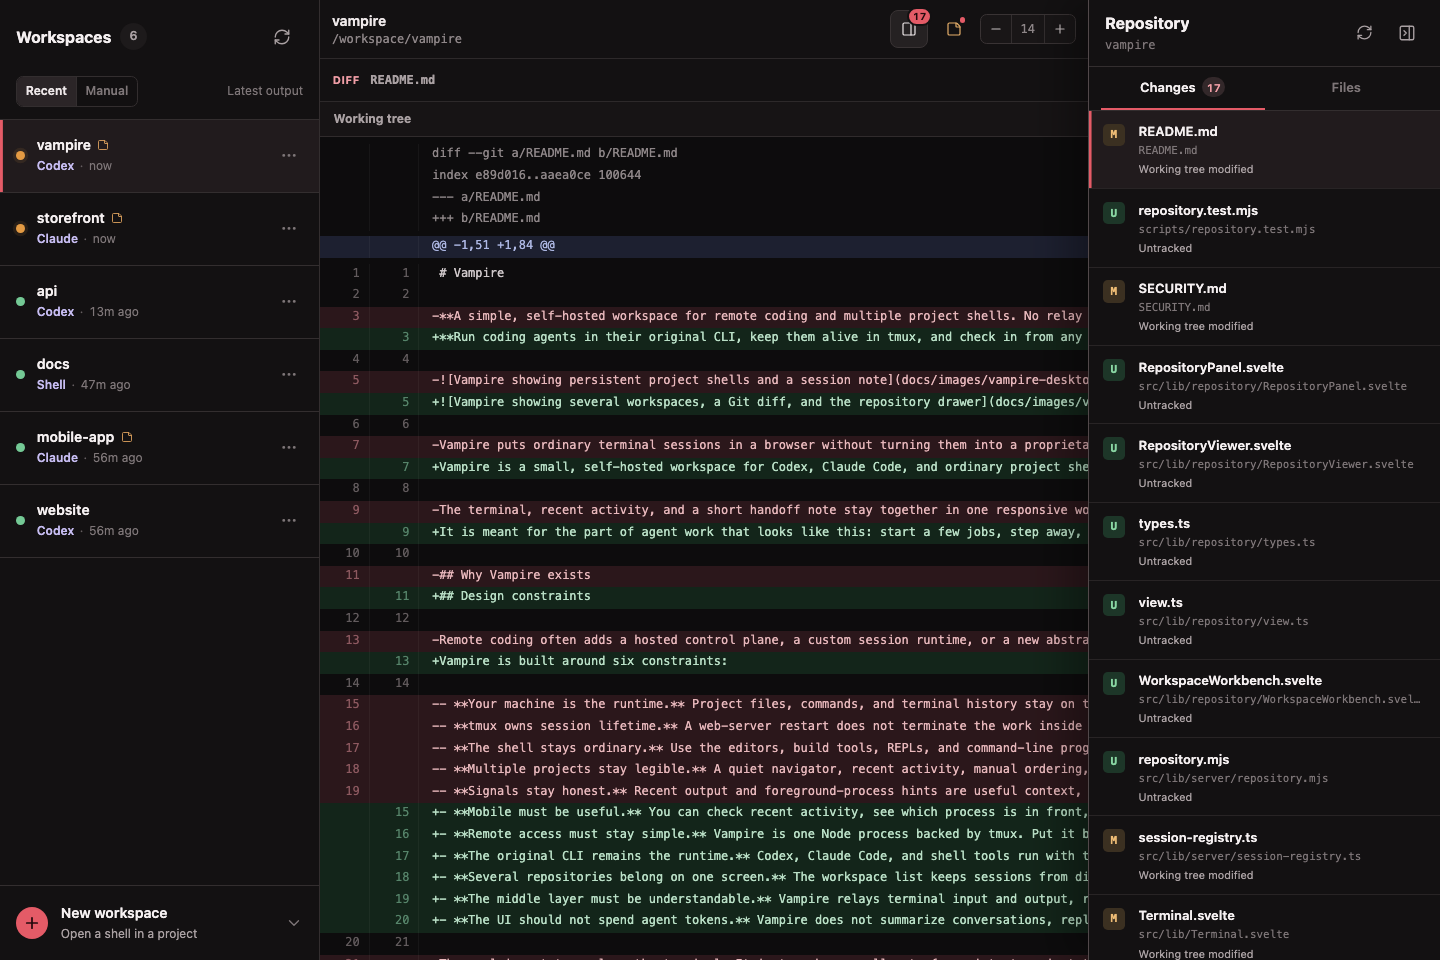
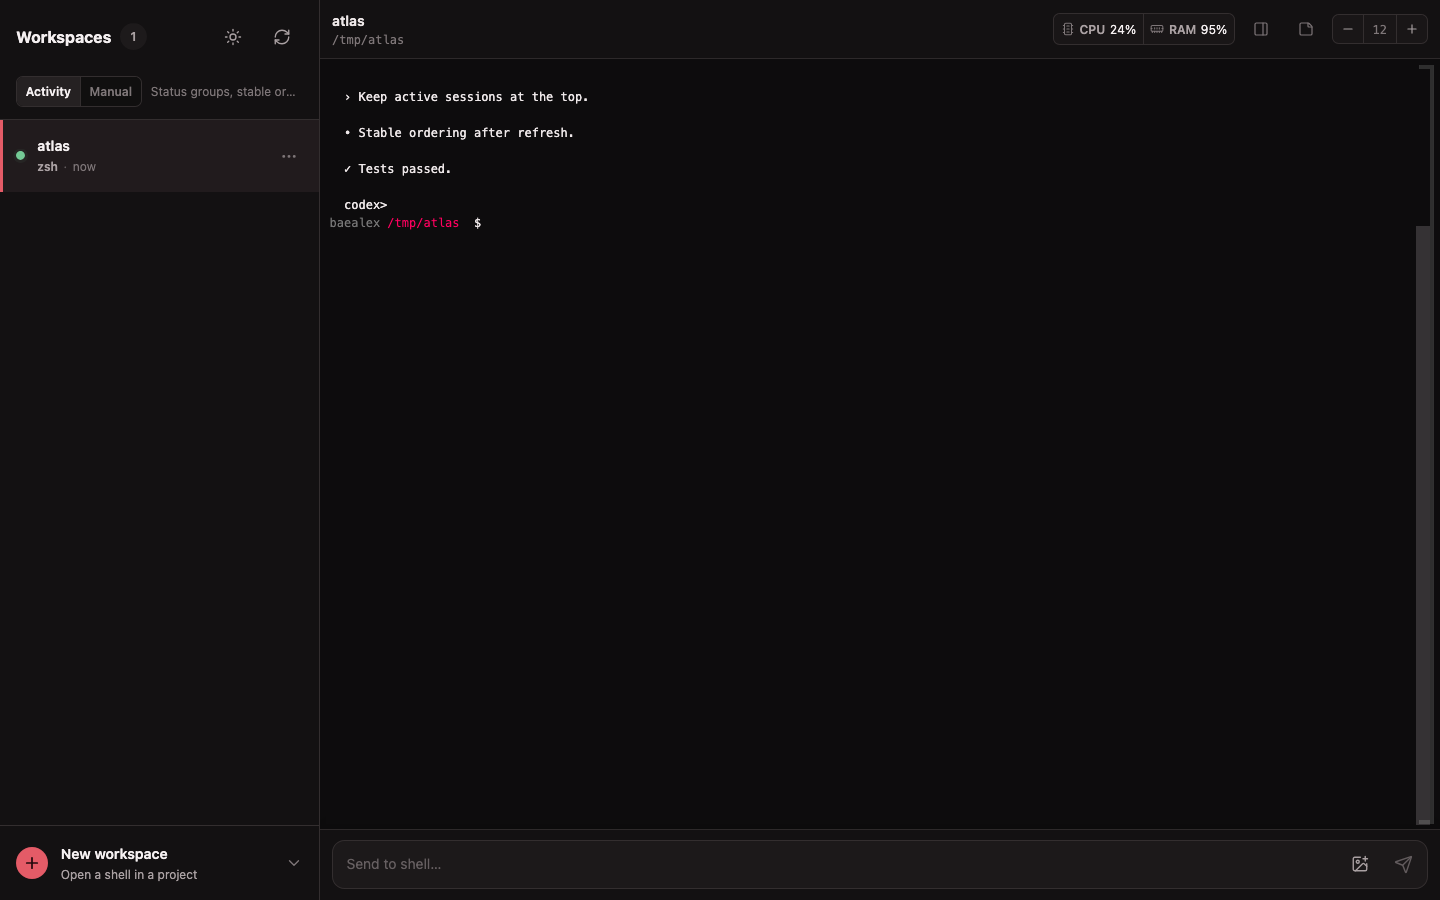
docs: refresh README onboarding and screenshots

diff --git a/README.md b/README.md
@@ -1,146 +1,119 @@
 # Vampire
 
-**Run coding agents in their original CLI, keep them alive in tmux, and check in from any browser.**
+**Keep your coding agents running in tmux. Continue the same conversation from a desktop or mobile browser.**
 
-![Vampire showing several workspaces, a Git diff, and the repository drawer](docs/images/vampire-desktop.png)
+<table>
+  <tr>
+    <td width="78%" valign="top">
+      <img src="docs/images/vampire-desktop.png" alt="Vampire desktop workspace with an agent conversation" />
+    </td>
+    <td width="22%" valign="top">
+      <img src="docs/images/vampire-mobile.png" alt="Vampire mobile workspace with an agent conversation" />
+    </td>
+  </tr>
+</table>
 
-Vampire is a small, self-hosted workspace for Codex, Claude Code, and ordinary project shells. Your tools keep their own configuration and authentication, tmux keeps them running, and Vampire gives you a browser UI for checking and controlling them from a laptop or phone.
-
-## Why this exists
-
-The tools I tried wanted to manage the agent too. They added a hosted relay, hooks, environment variables, a notification service, or their own agent runtime. I didn't want any of that.
-
-I wanted to keep using agents in the terminal, but make it easier to leave several jobs running and check them from another screen. Vampire handles the tmux sessions and browser UI. It leaves the agent alone.
+Vampire is a small, self-hosted browser UI for Codex, Claude Code, and ordinary shell sessions. The CLI, credentials, and project files stay on your machine.
 
 ## Quick start
 
-You need Node.js 22 or newer and tmux on macOS, Linux, or WSL2.
+### 1. Install prerequisites
 
-```sh
+You need Node.js 22+ and tmux.
+
+macOS (Homebrew):
+
+```bash
+brew install tmux
+```
+
+Debian, Ubuntu, or WSL2:
+
+```bash
+sudo apt update
+sudo apt install tmux
+```
+
+Fedora:
+
+```bash
+sudo dnf install tmux
+```
+
+Arch:
+
+```bash
+sudo pacman -S tmux
+```
+
+### 2. Start Vampire
+
+```bash
 npx vampire
 ```
 
-Open the local URL printed by Vampire (`http://127.0.0.1:7677` by default), add an absolute project directory, then start the CLI you already use:
+Open the printed URL, choose a project directory, and create a workspace.
 
-```sh
+### 3. Start your CLI
+
+Inside a workspace, run the agent or shell you already use:
+
+```bash
 codex
 # or
 claude
 ```
 
-Without `VAMPIRE_TOKEN`, Vampire stays local-only and shows no login screen. For remote access, set a token and place Vampire behind HTTPS, a VPN, or a private tunnel:
-
-```sh
-VAMPIRE_TOKEN="$(openssl rand -base64 32)" vampire
-```
+The process keeps running in tmux when you close the browser. Reopen the workspace from any device to continue.
 
 ## What you get
 
-- **Persistent workspaces.** Each workspace is a real tmux session. Closing the browser or restarting Vampire does not stop it.
-- **Workspace list.** See the foreground process, recent activity, notes, and projects in one place. Workspaces can be ordered manually.
-- **Git changes.** The terminal header shows the changed-file count. The read-only repository drawer shows diffs and previews text or image files.
-- **Mobile terminal.** Use Escape, Ctrl-C, Tab, Enter, arrow keys, image input, and font controls without a hardware keyboard. A tap interacts with the terminal; a drag scrolls.
-- **Dark and light themes.** Use the system theme or switch it yourself.
-- **The original CLI.** Codex and Claude Code keep their own credentials and configuration. Vampire does not rewrite prompts or make model calls.
+- Persistent tmux sessions for Codex, Claude Code, and any CLI.
+- The same workspace from a desktop or mobile browser.
+- Activity states for sessions that are live, under review, or idle.
+- Notes and process labels in the workspace list.
+- Git diffs, image previews, text editing, and inline file/folder creation.
+- Light and dark themes with a mobile-friendly terminal.
 
-Workspace status is based on terminal output:
+| State | Meaning |
+| --- | --- |
+| Live | Terminal output is active. |
+| Review | New terminal output needs review. |
+| Idle | No process is currently active. |
 
-| 🟡 Live | 🔵 Review | 🟢 Idle |
-| --- | --- | --- |
-| Terminal output is active | New output has not been viewed | Checked and quiet |
+## Remote access
 
-Activity states come from ordinary terminal output, not hooks or agent callbacks. They describe output, not the agent's intent, so Vampire does not guess whether an agent is finished or waiting for input.
+Vampire is local-only by default. If you need to access it from another device, set a token and put it behind HTTPS or a private network:
 
-## How it works
-
-```mermaid
-flowchart LR
-    Browser["Browser<br/>laptop or phone"]
-    Provider["Model provider"]
-
-    subgraph Machine["Your machine"]
-        direction LR
-        Vampire["Vampire<br/>browser connection"]
-        Tmux["tmux<br/>process lifetime"]
-        CLI["Codex · Claude Code<br/>or any CLI"]
-        Vampire <-->|"ordinary terminal I/O"| Tmux
-        Tmux -->|"keeps alive"| CLI
-    end
-
-    Browser <-->|"terminal input and output"| Vampire
-    CLI <-->|"own credentials and config"| Provider
+```bash
+VAMPIRE_TOKEN="$(openssl rand -base64 32)" npx vampire
 ```
 
-Vampire creates a plain tmux session in the project directory. You start the CLI yourself. tmux keeps the process alive; Vampire handles the browser connection and session list.
-
-## Mobile
-
-Open the same Vampire URL on a phone to review workspaces, scroll through output, and send the next instruction without reaching for a laptop.
-
-<p align="center">
-  <img src="docs/images/vampire-mobile.png" width="320" alt="Vampire's mobile terminal and instruction composer">
-</p>
-
-## Remote access and security
-
-Vampire is a remote shell interface. Anyone who can authenticate can act with the operating-system permissions of the Vampire process. It is intended for one trusted person or a small trusted environment, not as a multi-tenant isolation boundary.
-
-Keep Vampire bound to `127.0.0.1` and expose it through a same-host HTTPS reverse proxy or private network. It refuses non-loopback binding unless `VAMPIRE_TOKEN` is configured.
-
-```sh
-VAMPIRE_TOKEN="your-long-random-token" \
-VAMPIRE_ADAPTER_ORIGIN="https://vampire.example.com" \
-vampire
-```
-
-Minimal Caddy configuration:
-
-```caddyfile
-vampire.example.com {
-	reverse_proxy 127.0.0.1:7677
-}
-```
-
-The proxy must preserve the external `Host` header and support WebSocket upgrades. Read [SECURITY.md](SECURITY.md) before exposing Vampire outside your machine.
+Do not expose an unauthenticated instance to the public internet. See [SECURITY.md](SECURITY.md) for the threat model and reverse-proxy guidance.
 
 ## Configuration
 
-| Variable | Default | Purpose |
+| Variable | Purpose | Default |
 | --- | --- | --- |
-| `VAMPIRE_HOST` | `127.0.0.1` | Node server address |
-| `VAMPIRE_PORT` | `7677` | Node server port |
-| `VAMPIRE_TOKEN` | unset | Enables token login and non-loopback binding |
-| `VAMPIRE_STATE_DIR` | `~/.vampire` | Stores the session registry and workspace notes |
-| `VAMPIRE_ADAPTER_ORIGIN` | unset | Browser origin accepted by the server. Local HTTP loopback access is detected automatically; set the public HTTPS origin when using a reverse proxy. |
+| `VAMPIRE_HOST` | Bind address | `127.0.0.1` |
+| `VAMPIRE_PORT` | HTTP port | `7677` |
+| `VAMPIRE_TOKEN` | Bearer token for remote access | unset |
+| `VAMPIRE_STATE_DIR` | Session registry and workspace notes | `~/.vampire` |
+| `VAMPIRE_ADAPTER_ORIGIN` | Allowed browser origin for an adapter | unset |
 
-Project files, commands, terminal history, and running processes stay on your machine. Repository reads are restricted to the workspace directory, and the viewer rejects path traversal, escaping symlinks, oversized files, and unsupported binary previews.
-
-## Run from source
-
-```sh
-corepack enable
-pnpm install --frozen-lockfile
-pnpm dev
-```
-
-For a production build:
-
-```sh
-pnpm build
-VAMPIRE_TOKEN="$(openssl rand -base64 32)" pnpm start
-```
+Project files, commands, terminal history, and running processes stay on your machine. Repository access is restricted to the workspace directory.
 
 ## Development
 
-```sh
-pnpm check    # Svelte and TypeScript diagnostics
-pnpm test     # diagnostics, Node tests, and production build
+```bash
+pnpm install
+pnpm dev
+pnpm check
+pnpm test
 ```
 
-See [CONTRIBUTING.md](CONTRIBUTING.md) before submitting a change.
-
-Vampire is an early, pre-1.0 release for trusted personal use and small private environments. Configuration, storage, and APIs may change before 1.0.
+See [CONTRIBUTING.md](CONTRIBUTING.md) for the contributor workflow.
 
 ## License
 
-[MIT](LICENSE)
+MIT
